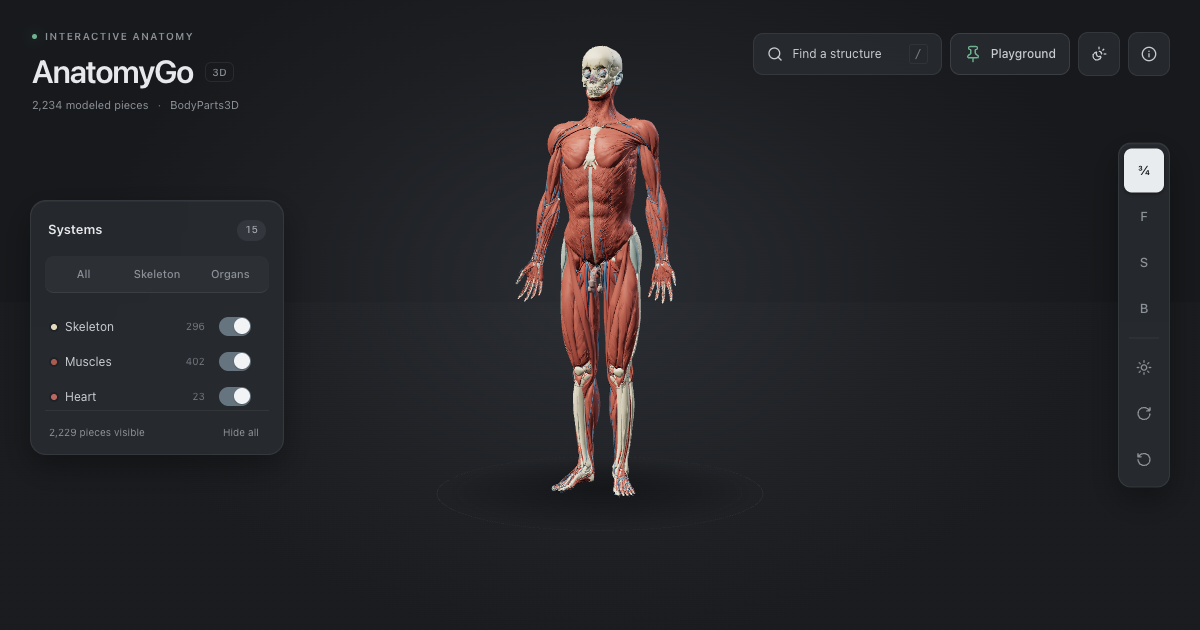
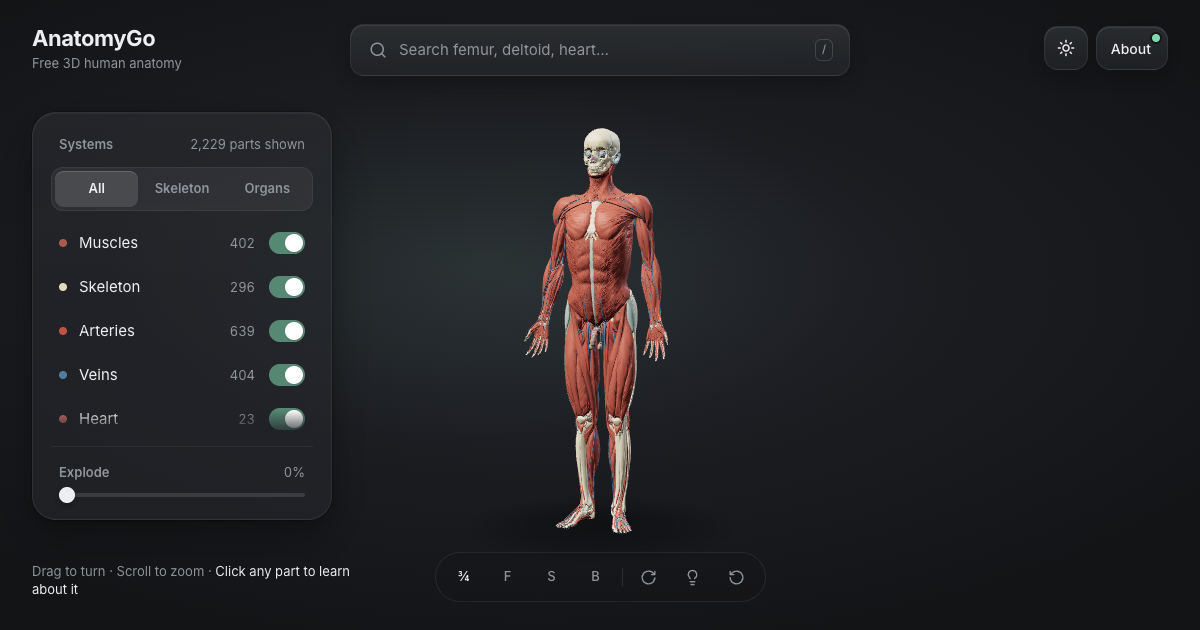
New link previews and README wording for the revamp (phase 7)
og-home.png (the body view) and og-playground.png (a published pin open in its card, still used
by /playground/ link previews) are new 1200x630 captures of the revamped site, from the
production build with live pins. The README's screenshot is og-home.png, so it updates too; its
feature list no longer sends people to the Playground.

diff --git a/README.md b/README.md
@@ -8,7 +8,7 @@
 
 [![Website](https://img.shields.io/badge/web-anatomygo.in-458a85)](https://anatomygo.in) [![Google Play](https://img.shields.io/badge/Google_Play-AnatomyGo-263b48?logo=googleplay&logoColor=white)](https://play.google.com/store/apps/details?id=com.anatomygo) [![Open Collective](https://img.shields.io/badge/Open_Collective-support_us-7fadf2?logo=opencollective&logoColor=white)](https://opencollective.com/anatomygo)
 
-<img src="public/og-home.png" width="820" alt="The AnatomyGo explorer: a 3D human body with the Systems panel open">
+<img src="public/og-home.png" width="820" alt="AnatomyGo: a 3D human body with the Systems panel open">
 
 </div>
 
@@ -17,7 +17,7 @@
 - **Explore 2,234 pieces in 15 systems.** Rotate, zoom and tap any structure to see what it is.
 - **Search, isolate and explode** the body to see where each part sits and what surrounds it.
 - **Open shared views** with study pins, and reveal answers quiz-style.
-- **Pin parts and features** in the [Playground](https://anatomygo.in/playground/), and vote on other people's pins.
+- **Pin parts and features** right on the model, and vote on or comment on other people's pins.
 
 No account is needed. It works on phones, tablets and computers.
 
